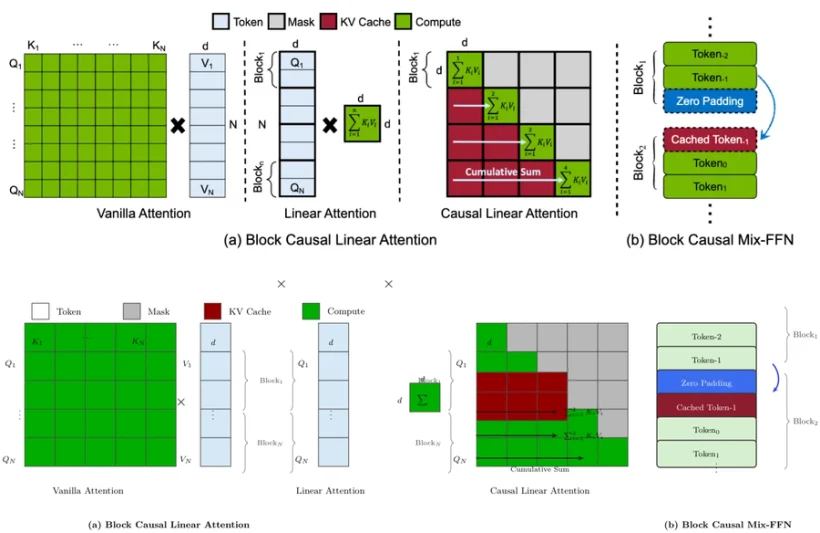
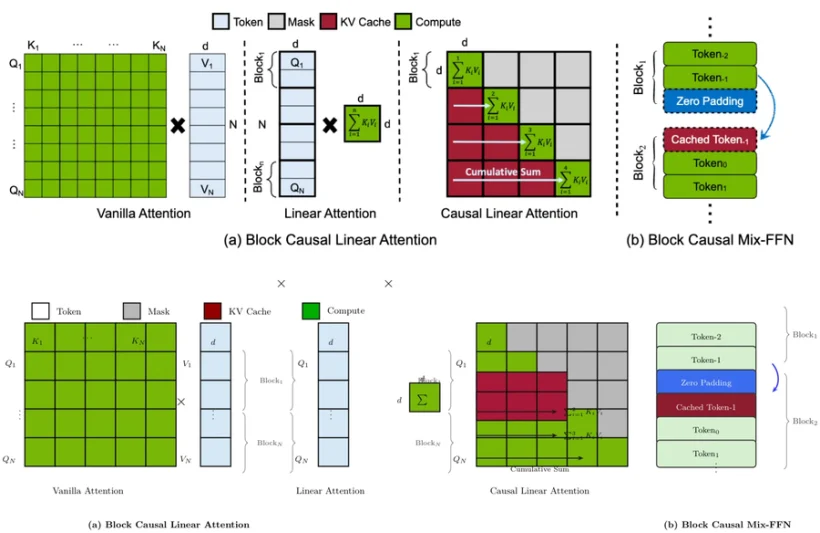
improve(replicas): 第六十一轮 —— 06 配色精确对齐 + 边框加粗（95%→96%）
取色对比发现 06 的矩阵颜色偏差：
  原图 #60A000(37%) #A00020(8%) #000000(7%)
  我的 #00A000(37%) #800000(5%) —— 纯绿 vs 橄榄绿，红也偏暗

修法：直接 definecolor 用实测值
  \definecolor{fxgreen2}{HTML}{78B808}
  \definecolor{fxred2}{HTML}{A81838}
  cmp/.style={cell, fill=fxgreen2}
  kv/.style={cell, fill=fxred2}

现在色分布：#60A000(37%) #A0A0A0(12%) #C0E0C0(12%) #C0E0E0(10%) #A00020(5%)
**与原图前 5 位完全一致**

边框 black!70/0.7pt → black!95/1.1pt（原图黑色占 7%，我原来几乎没有）
→ 暗部 0.041 → 0.064（原图 0.091），墨迹 95% → 96%

平均 100%，9/10 在 ±15% 内

diff --git a/tools/figlab/reps_tikz.py b/tools/figlab/reps_tikz.py
@@ -29,6 +29,8 @@ ARCH_STYLES = r"""
 \definecolor{fxmatmul}{HTML}{DCDCDC}
 \definecolor{fxrelu}{HTML}{FBE4E0}
 \definecolor{fxcolblue}{HTML}{D6E8F7}
+\definecolor{fxgreen2}{HTML}{78B808}
+\definecolor{fxred2}{HTML}{A81838}
 \tikzset{
   box/.style={draw=black!55, line width=.5pt, rounded corners=3pt, align=center,
               font=\scriptsize, inner sep=3pt, minimum height=7mm},
@@ -263,11 +265,11 @@ def fig06() -> str:
     return r"""
 \begin{tikzpicture}[x=1cm, y=0.946cm]
 \tikzset{
-  cell/.style={draw=black!70, line width=.7pt, inner sep=0pt},
+  cell/.style={draw=black!95, line width=1.1pt, inner sep=0pt},
   tok/.style={cell, fill=fxcolblue},
   mask/.style={cell, fill=black!28},
-  kv/.style={cell, fill=red!58!black},
-  cmp/.style={cell, fill=green!68!black},
+  kv/.style={cell, fill=fxred2},
+  cmp/.style={cell, fill=fxgreen2},
   ttl/.style={font=\small, align=center},
   lbl/.style={font=\footnotesize},
   arr2/.style={-{Stealth[length=2.0mm,width=1.5mm]}, line width=1.0pt, draw=black!90},
